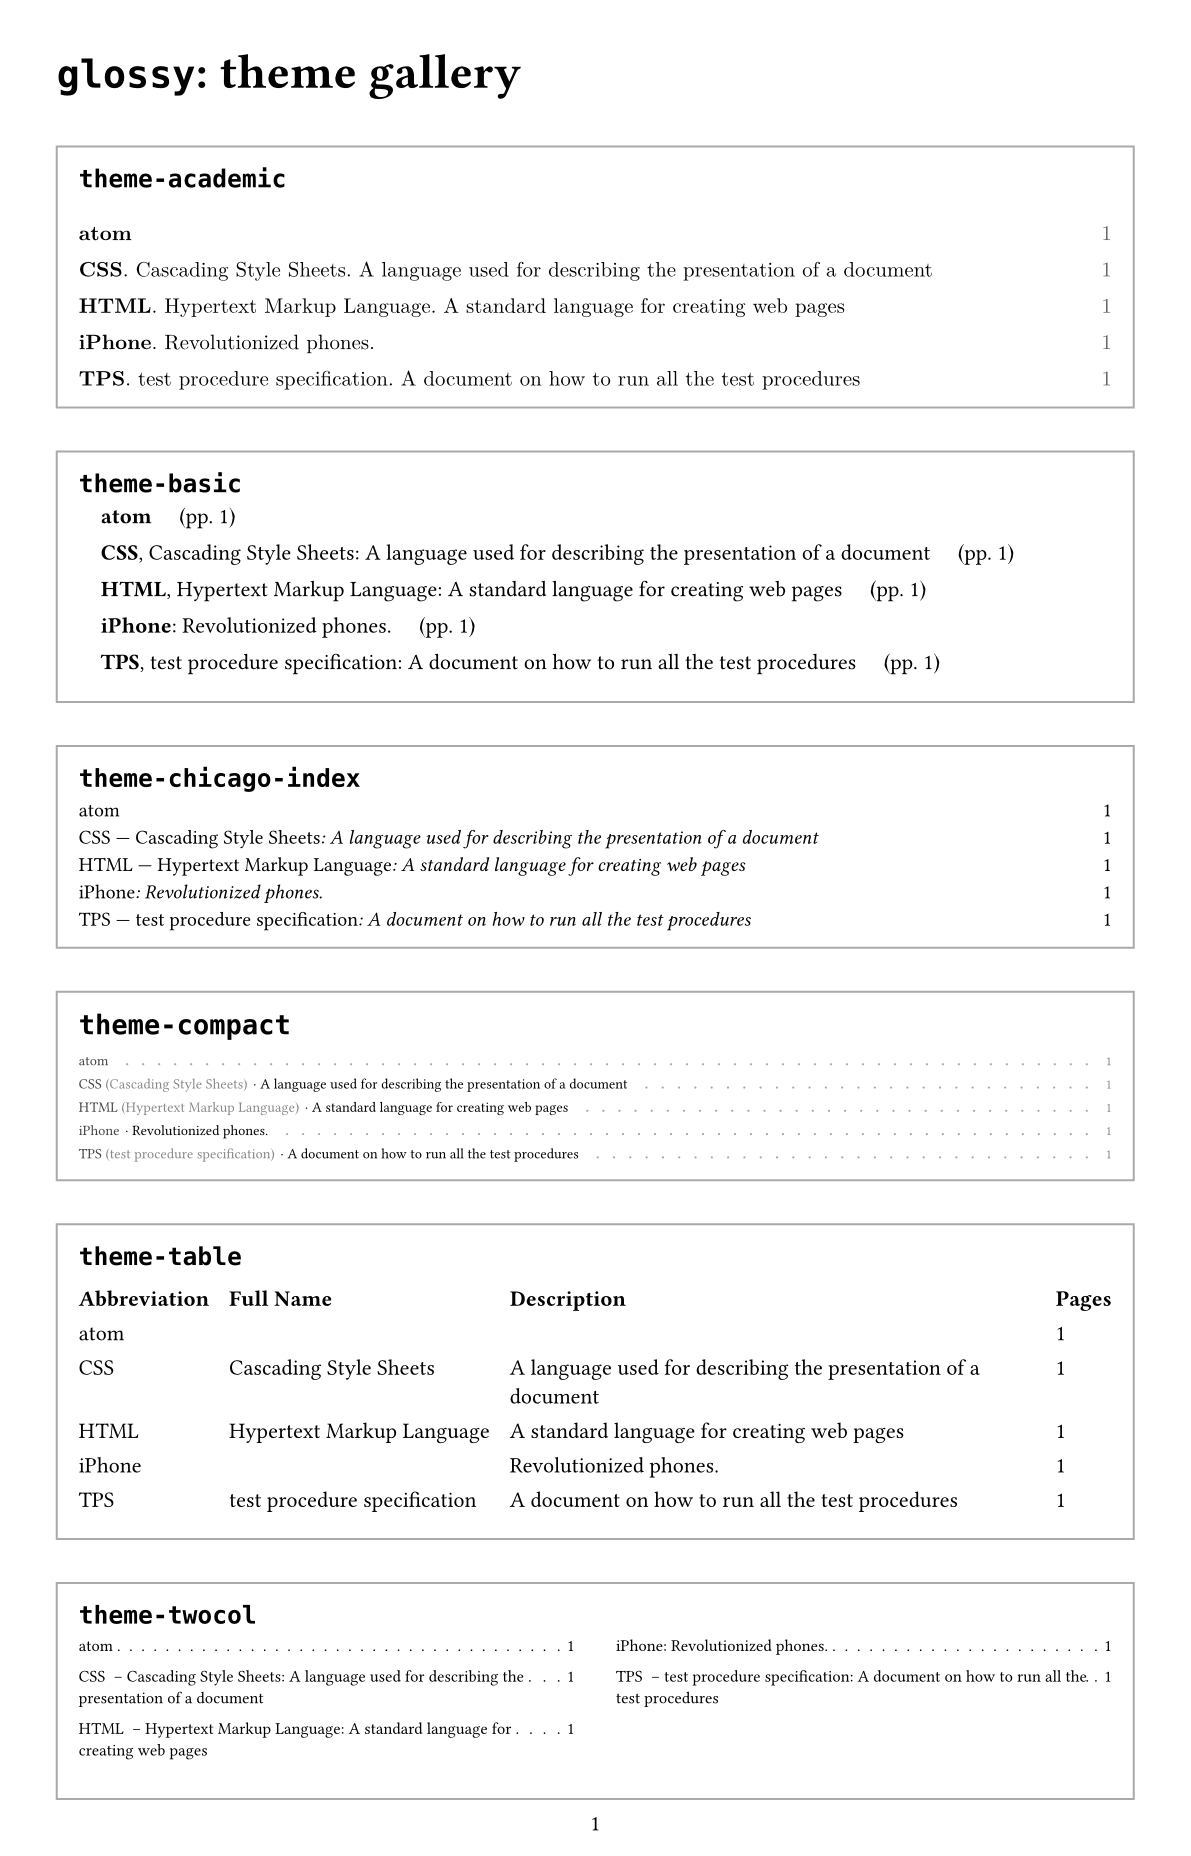
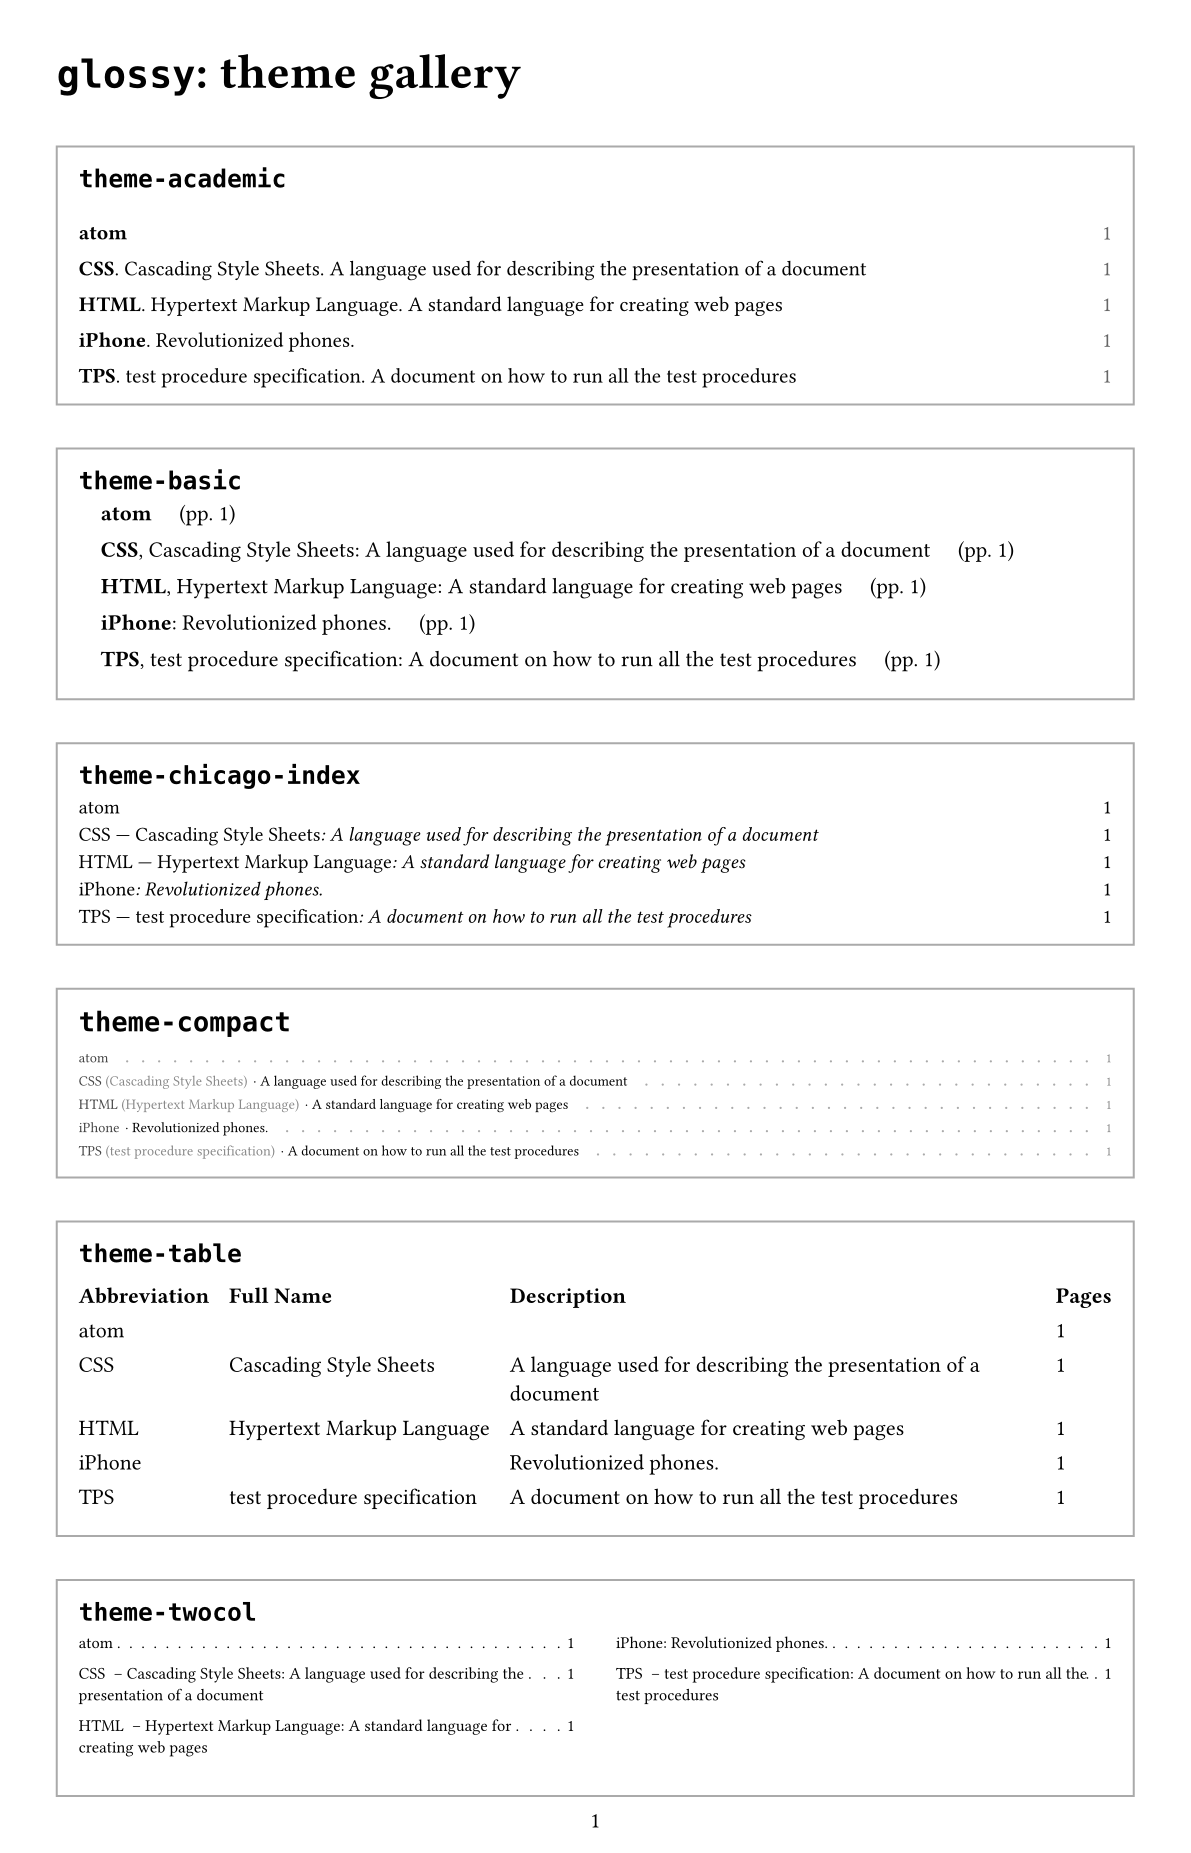
doc(glossy): update docs with new 0.6.0 features
- noref/noindex
- updated theme gallery (academic changed to not specify font)
- short/long/both no longer count against "first use"

diff --git a/README.md b/README.md
@@ -143,6 +143,7 @@ Available modifiers:
 - **short**: Shows only short form
 - **long**: Shows only long form
 - **def** or **desc**: Shows the description
+- **noref** or **noindex**: Don't show the term in the glossary.
 - **a** or **an**: Include the article (`an` is just an alias of `a`, they're
   equivalent)
 
@@ -160,6 +161,9 @@ Modifiers can be combined with colons:
 | `@tps:short:pl`     | "TPSes"                                                        |
 | `@tps:both:pl:cap`  | "Technical procedure specifications (TPSes)"                   |
 | `@tps:def`          | "A formal document describing test steps and expected results" |
+| `@tps:desc`         | _same as above, `desc` is an alias for `def`_                  |
+| `@tps:noref`        | _works as normal, just won't show up in glossary_              |
+| `@tps:noindex`      | _same as above, `noindex` is an alias for `noref`_             |
 
 The `a`/`an` modifier is special because it can either precede or follow the
 term's key.
@@ -179,6 +183,18 @@ For example:
 
 Note that the `a`/`an` (article) modifier cannot be combined with the `pl`
 (plural) modifier.
+
+### First use logic
+
+Any use of the `short`, `long`, or `both` modifier will not count against the
+term's first use.
+
+This is useful, for example, when you want to use a term in a heading or a
+caption. In that case, your term might end up in an `outline()` at the top of
+your document. Normally you don't want that to count as a term's first real use.
+Normally you want that to happen in the body of your document. So, by using
+these modifiers in such situations, you can not only specify exactly how you
+want your term to appear, but also control whether it counts as a "first use".
 
 ### Generating the Glossary
 
